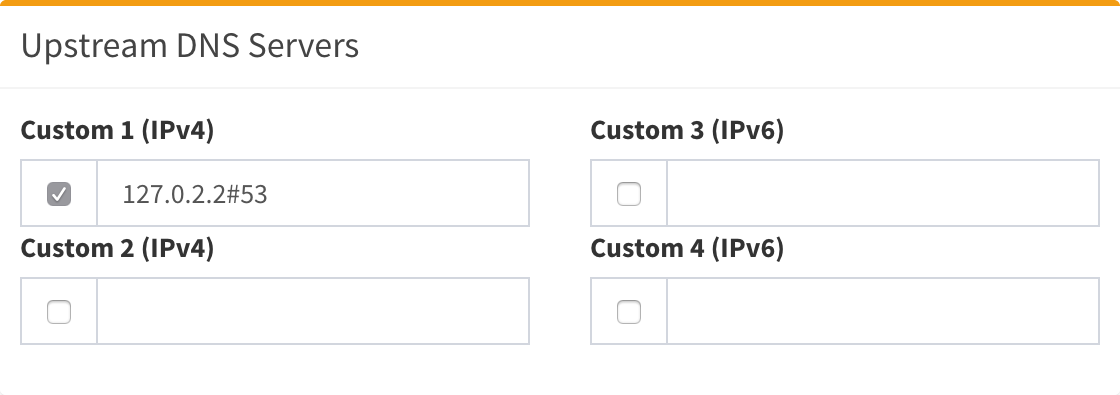
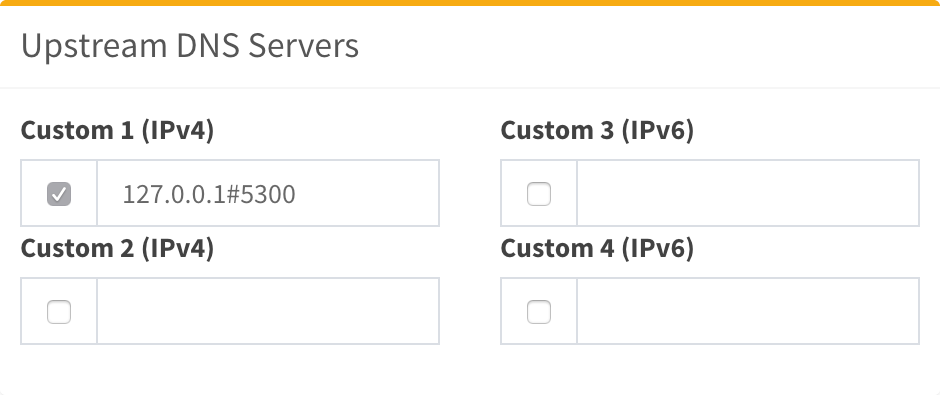
post: Improving DNS privacy

diff --git a/_posts/2019-04-11-secure-dns.md b/_posts/2019-04-11-secure-dns.md
@@ -1,0 +1,205 @@
+---
+title: "Improving DNS privacy"
+excerpt: "Clear text DNS queries can be observed and those queries can reveal not only what websites an individual visits but also meta data about other services"
+permalink: /secure-dns/
+header:
+  overlay_image: /assets/images/spying.jpg
+  overlay_filter: rgba(0, 0, 0, 0.5)
+  caption: The most significant leaks of data on the Internet
+categories:
+  - Sysadmin
+tags:
+  - raspberrypi
+  - wifi
+  - sysadmin
+  - dns
+  - privacy
+toc: true
+---
+
+# Problem statement
+
+What is a _DNS_?
+
+> The Domain Name System (DNS) is a hierarchical and decentralized naming system for computers, services, or other resources connected to the Internet or a private network. It associates various information with domain names assigned to each of the participating entities.
+
+The problem with DNS is primarily **privacy**.
+
+From the [dnsprivacy.org](dnsprivacy.org) site I've extracted some from the many issues:
+
+- Whilst the data in the DNS is public, **individual transactions** made by an end user should not be public.
+- However DNS queries are sent in **clear text** (using UDP or TCP) which means passive eavesdroppers can **observe all the DNS lookups** performed.
+- **Some ISPs log DNS queries** at the resolver and share this information with third-parties in ways not known or obvious to end users.
+
+{% include video id="JnxE5RPnyiE" provider="youtube" %}
+
+## Is there any solution
+
+There are multiple solutions:
+
+- DNS-over-TLS (DoT)
+- DNS-over-HTTP (DoH)
+- DNS-over-DTLS
+- DNSCrypt
+- DNS-over-HTTPS (proxied)
+- DNS-over-QUIC
+- DNSCurve
+
+In this post I'm going to describe how to implement DNS-over-TLS (DoT) that can be shared across all your private LAN, for further information on how the various solutions compare [see here](https://dnsprivacy.org/wiki/display/DP/DNS+Privacy+-+The+Solutions).
+
+## DNS-over-TLS (DoT)
+
+The use of Transport Layer Security (TLS) provides privacy for DNS.
+
+Encryption provided by TLS eliminates opportunities for eavesdropping and on-path tampering with DNS queries in the network.
+
+## DoT implementation: Stubby
+
+[Stubby](https://dnsprivacy.org/wiki/display/DP/About+Stubby) is an application that acts as a local DNS Privacy stub resolver (using DNS-over-TLS). Stubby encrypts DNS queries sent from a client machine (desktop or laptop) to a DNS Privacy resolver increasing end user privacy.
+
+### Raspbian installation
+
+Install build dependencies:
+
+```bash
+sudo apt install -y git automake build-essential libssl-dev libtool m4 autoconf libyaml-dev
+```
+
+Clone and configure getdns project:
+
+```bash
+git clone https://github.com/getdnsapi/getdns.git
+cd getdns
+git submodule update --init
+libtoolize -ci
+autoreconf -fi
+mkdir -v build && cd build
+../configure --prefix=/usr/local --without-libidn --without-libidn2 --enable-stub-only --with-stubby
+```
+
+Build and install:
+
+```bash
+make
+sudo make install
+```
+
+Install runtime dependencies:
+
+```bash
+sudo apt install -y libev4 libevent-core-2.0.5 libuv1 libidn11 dns-root-data libunbound2
+cd ~
+wget http://pyyaml.org/download/libyaml/yaml-0.2.2.tar.gz
+tar xvf yaml-0.2.2.tar.gz
+cd yaml-0.2.2
+./configure
+make
+sudo make install
+```
+
+Edit stubby configuration:
+
+```bash
+vi /usr/local/etc/stubby/stubby.yml
+````
+
+My configuration uses cloudflare dns as first choice and quad9 as fallback:
+
+```yaml
+resolution_type: GETDNS_RESOLUTION_STUB
+# Enable DoT
+dns_transport_list:
+  - GETDNS_TRANSPORT_TLS
+# Strict mode TLS only
+tls_authentication: GETDNS_AUTHENTICATION_REQUIRED
+tls_query_padding_blocksize: 128
+edns_client_subnet_private : 1
+# Set to 0 to treat the upstreams below as an ordered list and use a single
+# upstream until it becomes unavailable, then use the next one.
+round_robin_upstreams: 0
+idle_timeout: 10000
+# Set the listen addresses for the stubby DAEMON. IPv4 only.
+listen_addresses:
+  - 127.0.0.1@5300
+# Require DNSSEC validation.
+dnssec: GETDNS_EXTENSION_TRUE
+appdata_dir: "/var/cache/stubby"
+upstream_recursive_servers:
+## Cloudflare 1.1.1.1 and 1.0.0.1
+  - address_data: 1.1.1.1
+    tls_auth_name: "cloudflare-dns.com"
+  - address_data: 1.0.0.1
+    tls_auth_name: "cloudflare-dns.com"
+## Quad 9 'secure' service - Filters, does DNSSEC, doesn't send ECS
+  - address_data: 9.9.9.9
+    tls_auth_name: "dns.quad9.net"
+```
+
+Install it:
+
+```bash
+sudo /usr/bin/install -Dm644 /usr/local/etc/stubby/stubby.yml /etc/stubby.yml
+```
+
+Create a _systemd_ service:
+
+```bash
+sudo vi /lib/systemd/system/stubby.service
+```
+
+With content:
+
+```text
+[Unit]
+Description=Stubby DNS resolver
+Wants=network-online.target
+After=network-online.target
+
+[Service]
+ExecStart=/usr/local/bin/stubby -C /etc/stubby.yml
+Restart=on-abort
+
+[Install]
+WantedBy=multi-user.target
+```
+
+Enable and start it
+
+```bash
+sudo systemctl daemon-reload
+sudo systemctl enable stubby
+sudo systemctl start stubby
+```
+
+### Pi-hole
+
+Combining Stubby with [Pi-hole](https://pi-hole.net/) we can obtain a perfect match of privacy and performance.
+
+Installing it is quick and easy, just follow the [documentation site](https://docs.pi-hole.net/main/basic-install/).
+
+<figure>
+	<img src="/assets/images/pihole-stubby.png">
+	<figcaption>Configure Stubby as the only upstream DNS server.</figcaption>
+</figure>
+
+## Benchmark
+
+Using [dnsperftest](https://github.com/cleanbrowsing/dnsperftest/) script results are pretty good:
+
+```bash
+bash ./dnstest.sh | sort -k 22 -n
+                  test1   test2   ... test10  Average
+cloudflare        24 ms   26 ms   ... 27 ms     26.00
+pi-hole-stubby    73 ms   6 ms    ... 16 ms     32.90
+google            39 ms   23 ms   ... 27 ms     35.70
+cleanbrowsing     34 ms   31 ms   ... 37 ms     36.90
+neustar           37 ms   33 ms   ... 37 ms     38.00
+level3            46 ms   30 ms   ... 41 ms     39.00
+norton            41 ms   33 ms   ... 42 ms     39.40
+quad9             50 ms   45 ms   ... 35 ms     43.90
+adguard           48 ms   49 ms   ... 46 ms     50.60
+opendns           20 ms   26 ms   ... 22 ms     56.50
+yandex            72 ms   120 ms  ... 62 ms     99.20
+freenom           80 ms   168 ms  ... 148 ms    111.80
+comodo            1000 ms 1000 ms ... 1000 ms   815.00
+```

diff --git a/_drafts/stupid-java.md b/_drafts/stupid-java.md
@@ -10,9 +10,8 @@ categories:
   - Programming
 tags:
   - java
+toc: true
 ---
-
-{% include toc %}
 
 # STUPID Java
 
